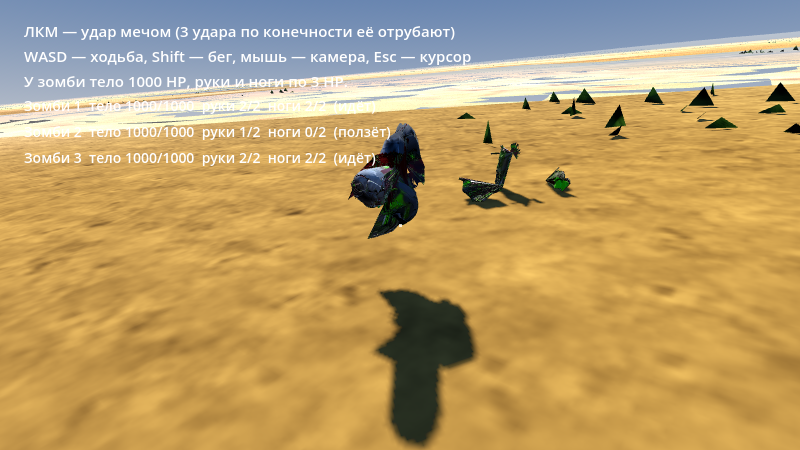
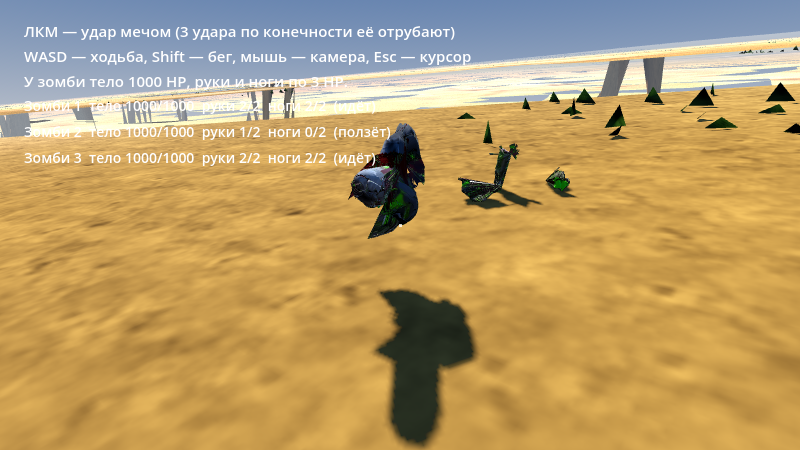
ci: отчёт проверки движком [skip ci]

diff --git a/ci/report.md b/ci/report.md
@@ -90,11 +90,11 @@ PASS  zombie.glb «WalkNoArms»: 22 дорожек, битых 0, длина 1.2
 
 === главная сцена
 остров: земля на атласе (1 поверхностей), растительность с вершинными цветами (59)
-заплатка земли: 7552 клеток по 1 м (закрывает дыры меша)
-PASS  medic.glb: «MxWalk» двигает кисть на 17.5 см
-  бёдра в мировых координатах: (0.022071, 0.483637, -0.006296)
-PASS  zombie.glb: «MxWalk» двигает кисть на 12.9 см
-  бёдра в мировых координатах: (-0.00594, 0.446332, -0.005806)
+заплатки земли: 1 мешей
+PASS  medic.glb: «MxWalk» двигает кисть на 9.3 см
+  бёдра в мировых координатах: (0.030207, 0.493636, 0.0069)
+PASS  zombie.glb: «MxWalk» двигает кисть на 9.2 см
+  бёдра в мировых координатах: (0.001563, 0.455554, 0.006364)
 PASS  игроков: 1
 PASS  зомби: 3
 PASS  остров на сцене: узлов-мешей 60
@@ -102,9 +102,8 @@ PASS  остров: земля на родном атласе 4096px
 PASS  остров: земля на шейдере ground.gdshader
 PASS  шейдер земли получает атлас
 PASS  шейдер земли получает зерно
-PASS  заплатка земли над дырами: треугольников 15104
-PASS  заплатка только по дырам, а не под всей ареной
-PASS  заплатка земли рисуется тем же шейдером с атласом
+PASS  заплатки земли в дырах острова: треугольников 17896
+PASS  заплатки рисуются шейдером земли (атлас + зерно)
 PASS  карта высот загружена в float32 (высота в метрах)
 PASS  высота арены из карты (1405.00) совпадает с arena.json (1405.00)
 PASS  игрок: скелет и AnimationPlayer
@@ -127,7 +126,7 @@ PASS  зомби: тело держит удар (осталось 966 HP)
 ERROR: Parameter "m" is null.
    at: mesh_get_surface_count (servers/rendering/dummy/storage/mesh_storage.h:120)
 
-=== итог: 86 проверок, 0 провалов
+=== итог: 85 проверок, 0 провалов
 WARNING: ObjectDB instances leaked at exit (run with --verbose for details).
      at: cleanup (core/object/object.cpp:2284)
 exit=0
@@ -152,7 +151,7 @@ WARNING: All audio drivers failed, falling back to the dummy driver.
      at: initialize (servers/audio_server.cpp:247)
 
 остров: земля на атласе (1 поверхностей), растительность с вершинными цветами (59)
-заплатка земли: 7552 клеток по 1 м (закрывает дыры меша)
+заплатки земли: 1 мешей
 внешние клипы: +7 из res://models/medic_clips.glb
 внешние клипы: +7 из res://models/zombie_clips.glb
 shot 01_player (800, 450) -> /tmp/shots/01_player.png err=0
